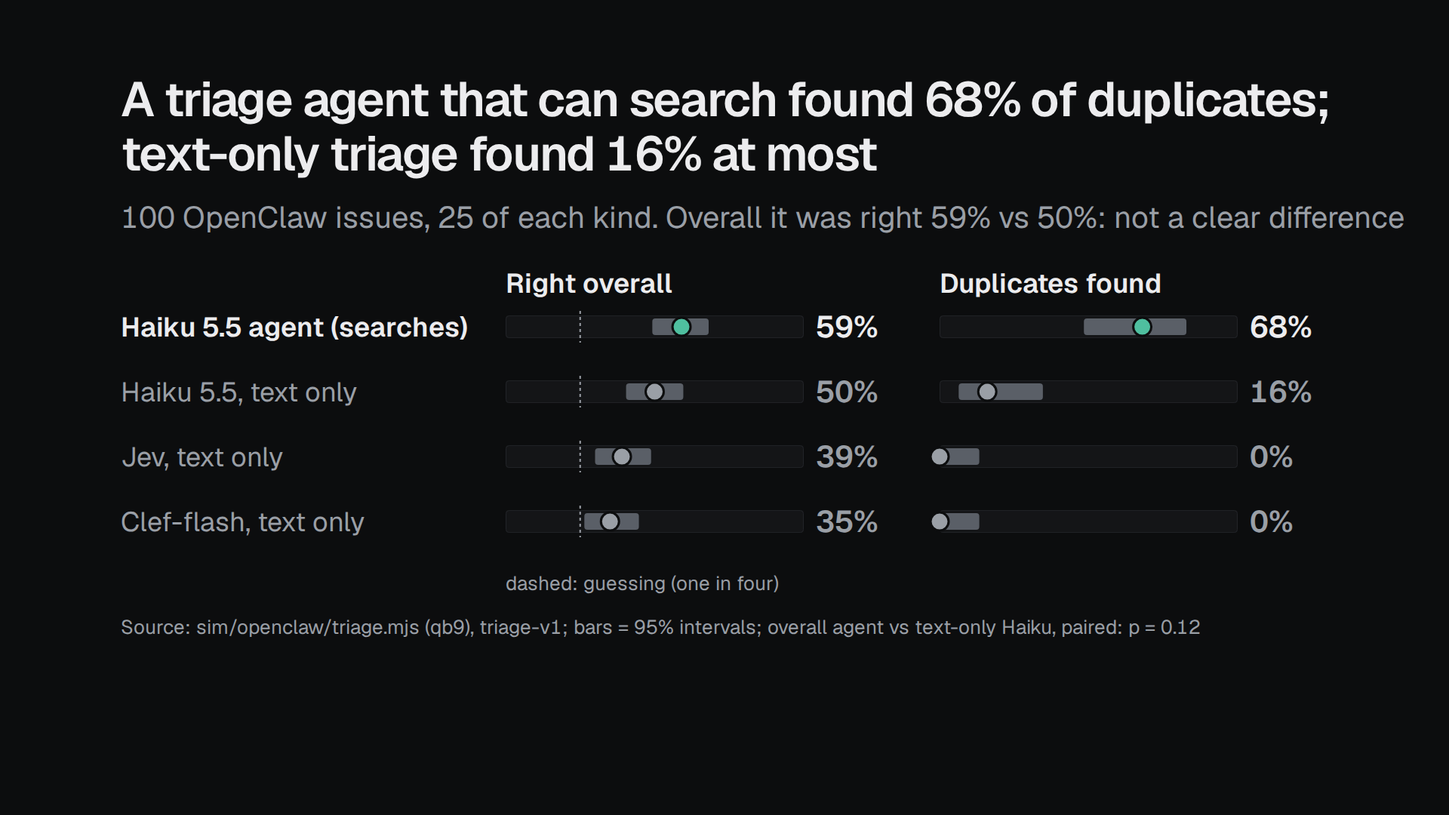
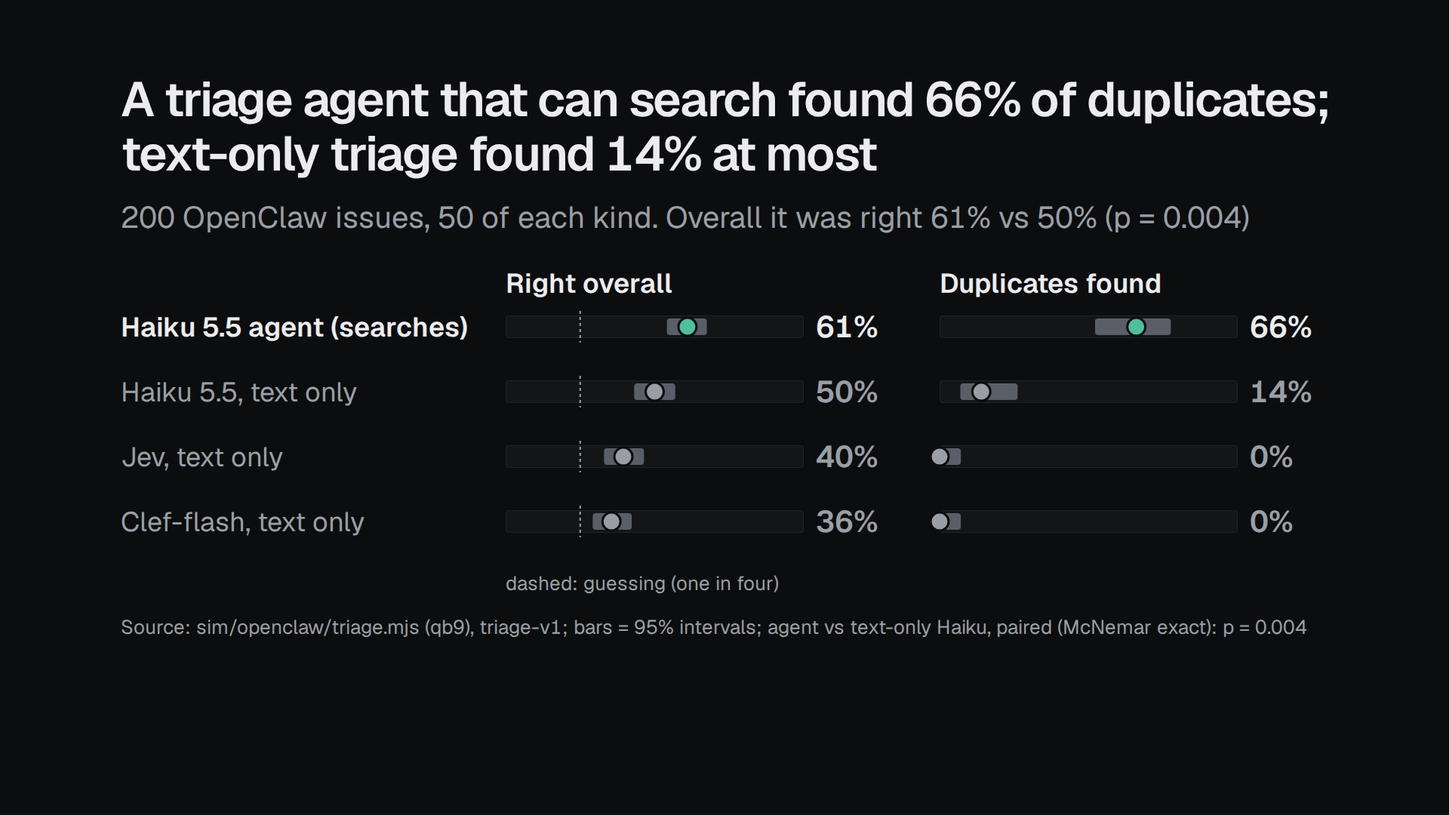
OpenClaw triage chart: 200 paired issues (agent 61% vs 50%, p = 0.004; duplicates 66% vs 14%), subline and p from the data; v2 vs v1 in the table

diff --git a/docs/openclaw/charts/index.html b/docs/openclaw/charts/index.html
@@ -56,9 +56,9 @@ footer { margin-top: 56px; color: var(--dim); font-size: 13px; }
 <p class="files">Source: docs/openclaw/data/breaks-summary.json. Files: <a href="openclaw-breaks-1920x1080-dark.png">1920x1080 dark</a> <a href="openclaw-breaks-1920x1080-light.png">1920x1080 light</a> <a href="openclaw-breaks-1080x1350-dark.png">1080x1350 dark</a> <a href="openclaw-breaks-1080x1350-light.png">1080x1350 light</a></p></details>
 </section>
 <section id="openclaw-triage" aria-labelledby="openclaw-triage-h">
-<h2 id="openclaw-triage-h" hidden>A triage agent that can search found 68% of duplicates; text-only triage found 16% at most</h2>
-<div class="L"><svg xmlns="http://www.w3.org/2000/svg" style="aspect-ratio:1920/1080" viewBox="0 0 1920 1080" role="img" aria-label="A triage agent that can search found 68% of duplicates; text-only triage found 16% at most" font-family="Geist, 'Instrument Sans', system-ui, sans-serif"><rect width="1920" height="1080" fill="var(--bg)"/><text x="160" y="154.4" font-size="64" font-weight="600" fill="var(--fg)" letter-spacing="-1.6" style="font-variant-numeric:tabular-nums">A triage agent that can search found 68% of duplicates;</text><text x="160" y="226.08" font-size="64" font-weight="600" fill="var(--fg)" letter-spacing="-1.6" style="font-variant-numeric:tabular-nums">text-only triage found 16% at most</text><text x="160" y="302.08000000000004" font-size="40" font-weight="400" fill="var(--dim)" style="font-variant-numeric:tabular-nums">100 OpenClaw issues, 25 of each kind. Overall it was right 59% vs 50%: not a clear difference</text><text x="670" y="388.08000000000004" font-size="36" font-weight="600" fill="var(--fg)" style="font-variant-numeric:tabular-nums">Right overall</text><text x="160" y="445.68000000000006" font-size="36" font-weight="600" fill="var(--fg)" style="font-variant-numeric:tabular-nums">Haiku 5.5 agent (searches)</text><rect x="670" y="418.08000000000004" width="395" height="30" rx="4" fill="var(--card)"/><rect x="670.5" y="418.58000000000004" width="394" height="29" rx="4" fill="none" stroke="var(--line)"/><line x1="768.75" x2="768.75" y1="412.08000000000004" y2="454.08000000000004" stroke="var(--dim)" stroke-width="2" stroke-dasharray="4 4"/><rect x="864.34" y="422.08000000000004" width="74.65500000000003" height="22" rx="4" fill="var(--bar)"><title>Haiku 5.5 agent (searches), right overall: 59% (49%-68%)</title></rect><circle cx="903.05" cy="433.08000000000004" r="12" fill="var(--acc)" stroke="var(--bg)" stroke-width="3"/><text x="1081" y="447.08000000000004" font-size="40" font-weight="600" fill="var(--fg)" style="font-variant-numeric:tabular-nums">59%</text><text x="160" y="531.6800000000001" font-size="36" font-weight="400" fill="var(--dim)" style="font-variant-numeric:tabular-nums">Haiku 5.5, text only</text><rect x="670" y="504.08000000000004" width="395" height="30" rx="4" fill="var(--card)"/><rect x="670.5" y="504.58000000000004" width="394" height="29" rx="4" fill="none" stroke="var(--line)"/><line x1="768.75" x2="768.75" y1="498.08000000000004" y2="540.08" stroke="var(--dim)" stroke-width="2" stroke-dasharray="4 4"/><rect x="829.58" y="508.08000000000004" width="75.83999999999997" height="22" rx="4" fill="var(--bar)"><title>Haiku 5.5, text only, right overall: 50% (40%-60%)</title></rect><circle cx="867.5" cy="519.08" r="12" fill="var(--dim)" stroke="var(--bg)" stroke-width="3"/><text x="1081" y="533.08" font-size="40" font-weight="600" fill="var(--dim)" style="font-variant-numeric:tabular-nums">50%</text><text x="160" y="617.6800000000001" font-size="36" font-weight="400" fill="var(--dim)" style="font-variant-numeric:tabular-nums">Jev, text only</text><rect x="670" y="590.08" width="395" height="30" rx="4" fill="var(--card)"/><rect x="670.5" y="590.58" width="394" height="29" rx="4" fill="none" stroke="var(--line)"/><line x1="768.75" x2="768.75" y1="584.08" y2="626.08" stroke="var(--dim)" stroke-width="2" stroke-dasharray="4 4"/><rect x="788.5" y="594.08" width="74.26" height="22" rx="4" fill="var(--bar)"><title>Jev, text only, right overall: 39% (30%-49%)</title></rect><circle cx="824.05" cy="605.08" r="12" fill="var(--dim)" stroke="var(--bg)" stroke-width="3"/><text x="1081" y="619.08" font-size="40" font-weight="600" fill="var(--dim)" style="font-variant-numeric:tabular-nums">39%</text><text x="160" y="703.6800000000001" font-size="36" font-weight="400" fill="var(--dim)" style="font-variant-numeric:tabular-nums">Clef-flash, text only</text><rect x="670" y="676.08" width="395" height="30" rx="4" fill="var(--card)"/><rect x="670.5" y="676.58" width="394" height="29" rx="4" fill="none" stroke="var(--line)"/><line x1="768.75" x2="768.75" y1="670.08" y2="712.08" stroke="var(--dim)" stroke-width="2" stroke-dasharray="4 4"/><rect x="774.28" y="680.08" width="72.285" height="22" rx="4" fill="var(--bar)"><title>Clef-flash, text only, right overall: 35% (26%-45%)</title></rect><circle cx="808.25" cy="691.08" r="12" fill="var(--dim)" stroke="var(--bg)" stroke-width="3"/><text x="1081" y="705.08" font-size="40" font-weight="600" fill="var(--dim)" style="font-variant-numeric:tabular-nums">35%</text><text x="1245" y="388.08000000000004" font-size="36" font-weight="600" fill="var(--fg)" style="font-variant-numeric:tabular-nums">Duplicates found</text><rect x="1245" y="418.08000000000004" width="395" height="30" rx="4" fill="var(--card)"/><rect x="1245.5" y="418.58000000000004" width="394" height="29" rx="4" fill="none" stroke="var(--line)"/><rect x="1436.219159251578" y="422.08000000000004" width="135.82114005670195" height="22" rx="4" fill="var(--bar)"><title>Haiku 5.5 agent (searches), duplicates found: 68% (48%-83%)</title></rect><circle cx="1513.6" cy="433.08000000000004" r="12" fill="var(--acc)" stroke="var(--bg)" stroke-width="3"/><text x="1656" y="447.08000000000004" font-size="40" font-weight="600" fill="var(--fg)" style="font-variant-numeric:tabular-nums">68%</text><rect x="1245" y="504.08000000000004" width="395" height="30" rx="4" fill="var(--card)"/><rect x="1245.5" y="504.58000000000004" width="394" height="29" rx="4" fill="none" stroke="var(--line)"/><rect x="1270.2932230538831" y="508.08000000000004" width="111.59013216805768" height="22" rx="4" fill="var(--bar)"><title>Haiku 5.5, text only, duplicates found: 16% (6%-35%)</title></rect><circle cx="1308.2" cy="519.08" r="12" fill="var(--dim)" stroke="var(--bg)" stroke-width="3"/><text x="1656" y="533.08" font-size="40" font-weight="600" fill="var(--dim)" style="font-variant-numeric:tabular-nums">16%</text><rect x="1245" y="590.08" width="395" height="30" rx="4" fill="var(--card)"/><rect x="1245.5" y="590.58" width="394" height="29" rx="4" fill="none" stroke="var(--line)"/><rect x="1245" y="594.08" width="52.6126151115056" height="22" rx="4" fill="var(--bar)"><title>Jev, text only, duplicates found: 0% (0%-13%)</title></rect><circle cx="1245" cy="605.08" r="12" fill="var(--dim)" stroke="var(--bg)" stroke-width="3"/><text x="1656" y="619.08" font-size="40" font-weight="600" fill="var(--dim)" style="font-variant-numeric:tabular-nums">0%</text><rect x="1245" y="676.08" width="395" height="30" rx="4" fill="var(--card)"/><rect x="1245.5" y="676.58" width="394" height="29" rx="4" fill="none" stroke="var(--line)"/><rect x="1245" y="680.08" width="52.6126151115056" height="22" rx="4" fill="var(--bar)"><title>Clef-flash, text only, duplicates found: 0% (0%-13%)</title></rect><circle cx="1245" cy="691.08" r="12" fill="var(--dim)" stroke="var(--bg)" stroke-width="3"/><text x="1656" y="705.08" font-size="40" font-weight="600" fill="var(--dim)" style="font-variant-numeric:tabular-nums">0%</text><text x="670" y="782.08" font-size="26" font-weight="400" fill="var(--dim)" style="font-variant-numeric:tabular-nums">dashed: guessing (one in four)</text><text x="160" y="840" font-size="26" font-weight="400" fill="var(--dim)" style="font-variant-numeric:tabular-nums">Source: sim/openclaw/triage.mjs (qb9), triage-v1; bars = 95% intervals; overall agent vs text-only Haiku, paired: p = 0.12</text></svg></div><div class="P"><svg xmlns="http://www.w3.org/2000/svg" style="aspect-ratio:1080/1350" viewBox="0 0 1080 1350" role="img" aria-label="A triage agent that can search found 68% of duplicates; text-only triage found 16% at most" font-family="Geist, 'Instrument Sans', system-ui, sans-serif"><rect width="1080" height="1350" fill="var(--bg)"/><text x="56" y="136.7" font-size="62" font-weight="600" fill="var(--fg)" letter-spacing="-1.6" style="font-variant-numeric:tabular-nums">A triage agent that</text><text x="56" y="206.14" font-size="62" font-weight="600" fill="var(--fg)" letter-spacing="-1.6" style="font-variant-numeric:tabular-nums">can search found 68%</text><text x="56" y="275.58000000000004" font-size="62" font-weight="600" fill="var(--fg)" letter-spacing="-1.6" style="font-variant-numeric:tabular-nums">of duplicates; text-only</text><text x="56" y="345.02" font-size="62" font-weight="600" fill="var(--fg)" letter-spacing="-1.6" style="font-variant-numeric:tabular-nums">16% at most</text><text x="56" y="425.02000000000004" font-size="44" font-weight="400" fill="var(--dim)" style="font-variant-numeric:tabular-nums">100 OpenClaw issues, 25 of each</text><text x="56" y="484.4200000000001" font-size="44" font-weight="400" fill="var(--dim)" style="font-variant-numeric:tabular-nums">kind. Overall 59% vs 50%, not clear</text><text x="56" y="578.4200000000001" font-size="40" font-weight="600" fill="var(--fg)" style="font-variant-numeric:tabular-nums">Right overall</text><text x="56" y="623.4200000000001" font-size="34" font-weight="600" fill="var(--fg)" style="font-variant-numeric:tabular-nums">Haiku agent</text><rect x="276" y="600.4200000000001" width="638" height="26" rx="4" fill="var(--card)"/><rect x="276.5" y="600.9200000000001" width="637" height="25" rx="4" fill="none" stroke="var(--line)"/><line x1="435.5" x2="435.5" y1="596.4200000000001" y2="630.4200000000001" stroke="var(--dim)" stroke-width="2" stroke-dasharray="4 4"/><rect x="589.896" y="603.4200000000001" width="120.58200000000004" height="20" rx="4" fill="var(--bar)"></rect><circle cx="652.42" cy="613.4200000000001" r="12" fill="var(--acc)" stroke="var(--bg)" stroke-width="3"/><text x="928" y="624.4200000000001" font-size="36" font-weight="600" fill="var(--fg)" style="font-variant-numeric:tabular-nums">59%</text><text x="56" y="686.1175000000001" font-size="34" font-weight="400" fill="var(--dim)" style="font-variant-numeric:tabular-nums">Haiku, text</text><rect x="276" y="663.1175000000001" width="638" height="26" rx="4" fill="var(--card)"/><rect x="276.5" y="663.6175000000001" width="637" height="25" rx="4" fill="none" stroke="var(--line)"/><line x1="435.5" x2="435.5" y1="659.1175000000001" y2="693.1175000000001" stroke="var(--dim)" stroke-width="2" stroke-dasharray="4 4"/><rect x="533.752" y="666.1175000000001" width="122.49599999999997" height="20" rx="4" fill="var(--bar)"></rect><circle cx="595" cy="676.1175000000001" r="12" fill="var(--dim)" stroke="var(--bg)" stroke-width="3"/><text x="928" y="687.1175000000001" font-size="36" font-weight="600" fill="var(--dim)" style="font-variant-numeric:tabular-nums">50%</text><text x="56" y="748.815" font-size="34" font-weight="400" fill="var(--dim)" style="font-variant-numeric:tabular-nums">Jev, text</text><rect x="276" y="725.815" width="638" height="26" rx="4" fill="var(--card)"/><rect x="276.5" y="726.315" width="637" height="25" rx="4" fill="none" stroke="var(--line)"/><line x1="435.5" x2="435.5" y1="721.815" y2="755.815" stroke="var(--dim)" stroke-width="2" stroke-dasharray="4 4"/><rect x="467.4" y="728.815" width="119.944" height="20" rx="4" fill="var(--bar)"></rect><circle cx="524.82" cy="738.815" r="12" fill="var(--dim)" stroke="var(--bg)" stroke-width="3"/><text x="928" y="749.815" font-size="36" font-weight="600" fill="var(--dim)" style="font-variant-numeric:tabular-nums">39%</text><text x="56" y="811.5125" font-size="34" font-weight="400" fill="var(--dim)" style="font-variant-numeric:tabular-nums">Clef-flash</text><rect x="276" y="788.5125" width="638" height="26" rx="4" fill="var(--card)"/><rect x="276.5" y="789.0125" width="637" height="25" rx="4" fill="none" stroke="var(--line)"/><line x1="435.5" x2="435.5" y1="784.5125" y2="818.5125" stroke="var(--dim)" stroke-width="2" stroke-dasharray="4 4"/><rect x="444.432" y="791.5125" width="116.75399999999999" height="20" rx="4" fill="var(--bar)"></rect><circle cx="499.29999999999995" cy="801.5125" r="12" fill="var(--dim)" stroke="var(--bg)" stroke-width="3"/><text x="928" y="812.5125" font-size="36" font-weight="600" fill="var(--dim)" style="font-variant-numeric:tabular-nums">35%</text><text x="56" y="899.21" font-size="40" font-weight="600" fill="var(--fg)" style="font-variant-numeric:tabular-nums">Duplicates found</text><text x="56" y="944.21" font-size="34" font-weight="600" fill="var(--fg)" style="font-variant-numeric:tabular-nums">Haiku agent</text><rect x="276" y="921.21" width="638" height="26" rx="4" fill="var(--card)"/><rect x="276.5" y="921.71" width="637" height="25" rx="4" fill="none" stroke="var(--line)"/><rect x="584.8552496265995" y="924.21" width="219.37693001563505" height="20" rx="4" fill="var(--bar)"></rect><circle cx="709.84" cy="934.21" r="12" fill="var(--acc)" stroke="var(--bg)" stroke-width="3"/><text x="928" y="945.21" font-size="36" font-weight="600" fill="var(--fg)" style="font-variant-numeric:tabular-nums">68%</text><text x="56" y="1006.9075" font-size="34" font-weight="400" fill="var(--dim)" style="font-variant-numeric:tabular-nums">Haiku, text</text><rect x="276" y="983.9075" width="638" height="26" rx="4" fill="var(--card)"/><rect x="276.5" y="984.4075" width="637" height="25" rx="4" fill="none" stroke="var(--line)"/><rect x="316.85335774272755" y="986.9075" width="180.2392514511919" height="20" rx="4" fill="var(--bar)"></rect><circle cx="378.08" cy="996.9075" r="12" fill="var(--dim)" stroke="var(--bg)" stroke-width="3"/><text x="928" y="1007.9075" font-size="36" font-weight="600" fill="var(--dim)" style="font-variant-numeric:tabular-nums">16%</text><text x="56" y="1069.605" font-size="34" font-weight="400" fill="var(--dim)" style="font-variant-numeric:tabular-nums">Jev, text</text><rect x="276" y="1046.605" width="638" height="26" rx="4" fill="var(--card)"/><rect x="276.5" y="1047.105" width="637" height="25" rx="4" fill="none" stroke="var(--line)"/><rect x="276" y="1049.605" width="84.97936314212802" height="20" rx="4" fill="var(--bar)"></rect><circle cx="276" cy="1059.605" r="12" fill="var(--dim)" stroke="var(--bg)" stroke-width="3"/><text x="928" y="1070.605" font-size="36" font-weight="600" fill="var(--dim)" style="font-variant-numeric:tabular-nums">0%</text><text x="56" y="1132.3025" font-size="34" font-weight="400" fill="var(--dim)" style="font-variant-numeric:tabular-nums">Clef-flash</text><rect x="276" y="1109.3025" width="638" height="26" rx="4" fill="var(--card)"/><rect x="276.5" y="1109.8025" width="637" height="25" rx="4" fill="none" stroke="var(--line)"/><rect x="276" y="1112.3025" width="84.97936314212802" height="20" rx="4" fill="var(--bar)"></rect><circle cx="276" cy="1122.3025" r="12" fill="var(--dim)" stroke="var(--bg)" stroke-width="3"/><text x="928" y="1133.3025" font-size="36" font-weight="600" fill="var(--dim)" style="font-variant-numeric:tabular-nums">0%</text><text x="56" y="1252" font-size="30" font-weight="400" fill="var(--dim)" style="font-variant-numeric:tabular-nums">Source: sim/openclaw/triage.mjs (qb9), triage-v1; bars =</text><text x="56" y="1291" font-size="30" font-weight="400" fill="var(--dim)" style="font-variant-numeric:tabular-nums">95% intervals; overall agent vs text-only Haiku, paired: p = 0.12</text></svg></div>
-<details><summary>The numbers</summary><table><tr><th>classifier</th><th>right overall</th><th>95% interval</th><th>duplicates found</th><th>closes</th><th>fixes</th><th>decisions</th></tr><tr><td>Haiku 5.5 agent (searches)</td><td>59%</td><td>49%-68%</td><td>17 of 25</td><td>28%</td><td>72%</td><td>68%</td></tr><tr><td>Haiku 5.5, text only</td><td>50%</td><td>40%-60%</td><td>4 of 25</td><td>20%</td><td>88%</td><td>76%</td></tr><tr><td>Jev, text only</td><td>39%</td><td>30%-49%</td><td>0 of 25</td><td>20%</td><td>88%</td><td>48%</td></tr><tr><td>Clef-flash, text only</td><td>35%</td><td>26%-45%</td><td>0 of 25</td><td>12%</td><td>96%</td><td>32%</td></tr><tr><td>agent cost for 100</td><td>$0.121 API-equivalent</td><td>3 turns (median)</td><td></td><td></td><td></td><td></td></tr></table>
+<h2 id="openclaw-triage-h" hidden>A triage agent that can search found 66% of duplicates; text-only triage found 14% at most</h2>
+<div class="L"><svg xmlns="http://www.w3.org/2000/svg" style="aspect-ratio:1920/1080" viewBox="0 0 1920 1080" role="img" aria-label="A triage agent that can search found 66% of duplicates; text-only triage found 14% at most" font-family="Geist, 'Instrument Sans', system-ui, sans-serif"><rect width="1920" height="1080" fill="var(--bg)"/><text x="160" y="154.4" font-size="64" font-weight="600" fill="var(--fg)" letter-spacing="-1.6" style="font-variant-numeric:tabular-nums">A triage agent that can search found 66% of duplicates;</text><text x="160" y="226.08" font-size="64" font-weight="600" fill="var(--fg)" letter-spacing="-1.6" style="font-variant-numeric:tabular-nums">text-only triage found 14% at most</text><text x="160" y="302.08000000000004" font-size="40" font-weight="400" fill="var(--dim)" style="font-variant-numeric:tabular-nums">200 OpenClaw issues, 50 of each kind. Overall it was right 61% vs 50% (p = 0.004)</text><text x="670" y="388.08000000000004" font-size="36" font-weight="600" fill="var(--fg)" style="font-variant-numeric:tabular-nums">Right overall</text><text x="160" y="445.68000000000006" font-size="36" font-weight="600" fill="var(--fg)" style="font-variant-numeric:tabular-nums">Haiku 5.5 agent (searches)</text><rect x="670" y="418.08000000000004" width="395" height="30" rx="4" fill="var(--card)"/><rect x="670.5" y="418.58000000000004" width="394" height="29" rx="4" fill="none" stroke="var(--line)"/><line x1="768.75" x2="768.75" y1="412.08000000000004" y2="454.08000000000004" stroke="var(--dim)" stroke-width="2" stroke-dasharray="4 4"/><rect x="883.695" y="422.08000000000004" width="52.93" height="22" rx="4" fill="var(--bar)"><title>Haiku 5.5 agent (searches), right overall: 61% (54%-68%)</title></rect><circle cx="910.95" cy="433.08000000000004" r="12" fill="var(--acc)" stroke="var(--bg)" stroke-width="3"/><text x="1081" y="447.08000000000004" font-size="40" font-weight="600" fill="var(--fg)" style="font-variant-numeric:tabular-nums">61%</text><text x="160" y="531.6800000000001" font-size="36" font-weight="400" fill="var(--dim)" style="font-variant-numeric:tabular-nums">Haiku 5.5, text only</text><rect x="670" y="504.08000000000004" width="395" height="30" rx="4" fill="var(--card)"/><rect x="670.5" y="504.58000000000004" width="394" height="29" rx="4" fill="none" stroke="var(--line)"/><line x1="768.75" x2="768.75" y1="498.08000000000004" y2="540.08" stroke="var(--dim)" stroke-width="2" stroke-dasharray="4 4"/><rect x="840.245" y="508.08000000000004" width="54.509999999999984" height="22" rx="4" fill="var(--bar)"><title>Haiku 5.5, text only, right overall: 50% (43%-57%)</title></rect><circle cx="867.5" cy="519.08" r="12" fill="var(--dim)" stroke="var(--bg)" stroke-width="3"/><text x="1081" y="533.08" font-size="40" font-weight="600" fill="var(--dim)" style="font-variant-numeric:tabular-nums">50%</text><text x="160" y="617.6800000000001" font-size="36" font-weight="400" fill="var(--dim)" style="font-variant-numeric:tabular-nums">Jev, text only</text><rect x="670" y="590.08" width="395" height="30" rx="4" fill="var(--card)"/><rect x="670.5" y="590.58" width="394" height="29" rx="4" fill="none" stroke="var(--line)"/><line x1="768.75" x2="768.75" y1="584.08" y2="626.08" stroke="var(--dim)" stroke-width="2" stroke-dasharray="4 4"/><rect x="800.35" y="594.08" width="52.93" height="22" rx="4" fill="var(--bar)"><title>Jev, text only, right overall: 40% (33%-46%)</title></rect><circle cx="826.025" cy="605.08" r="12" fill="var(--dim)" stroke="var(--bg)" stroke-width="3"/><text x="1081" y="619.08" font-size="40" font-weight="600" fill="var(--dim)" style="font-variant-numeric:tabular-nums">40%</text><text x="160" y="703.6800000000001" font-size="36" font-weight="400" fill="var(--dim)" style="font-variant-numeric:tabular-nums">Clef-flash, text only</text><rect x="670" y="676.08" width="395" height="30" rx="4" fill="var(--card)"/><rect x="670.5" y="676.58" width="394" height="29" rx="4" fill="none" stroke="var(--line)"/><line x1="768.75" x2="768.75" y1="670.08" y2="712.08" stroke="var(--dim)" stroke-width="2" stroke-dasharray="4 4"/><rect x="785.34" y="680.08" width="51.745000000000005" height="22" rx="4" fill="var(--bar)"><title>Clef-flash, text only, right overall: 36% (29%-42%)</title></rect><circle cx="810.225" cy="691.08" r="12" fill="var(--dim)" stroke="var(--bg)" stroke-width="3"/><text x="1081" y="705.08" font-size="40" font-weight="600" fill="var(--dim)" style="font-variant-numeric:tabular-nums">36%</text><text x="1245" y="388.08000000000004" font-size="36" font-weight="600" fill="var(--fg)" style="font-variant-numeric:tabular-nums">Duplicates found</text><rect x="1245" y="418.08000000000004" width="395" height="30" rx="4" fill="var(--card)"/><rect x="1245.5" y="418.58000000000004" width="394" height="29" rx="4" fill="none" stroke="var(--line)"/><rect x="1451.0065957388574" y="422.08000000000004" width="100.3681642026515" height="22" rx="4" fill="var(--bar)"><title>Haiku 5.5 agent (searches), duplicates found: 66% (52%-78%)</title></rect><circle cx="1505.7" cy="433.08000000000004" r="12" fill="var(--acc)" stroke="var(--bg)" stroke-width="3"/><text x="1656" y="447.08000000000004" font-size="40" font-weight="600" fill="var(--fg)" style="font-variant-numeric:tabular-nums">66%</text><rect x="1245" y="504.08000000000004" width="395" height="30" rx="4" fill="var(--card)"/><rect x="1245.5" y="504.58000000000004" width="394" height="29" rx="4" fill="none" stroke="var(--line)"/><rect x="1272.4554437849904" y="508.08000000000004" width="75.98106214919565" height="22" rx="4" fill="var(--bar)"><title>Haiku 5.5, text only, duplicates found: 14% (7%-26%)</title></rect><circle cx="1300.3" cy="519.08" r="12" fill="var(--dim)" stroke="var(--bg)" stroke-width="3"/><text x="1656" y="533.08" font-size="40" font-weight="600" fill="var(--dim)" style="font-variant-numeric:tabular-nums">14%</text><rect x="1245" y="590.08" width="395" height="30" rx="4" fill="var(--card)"/><rect x="1245.5" y="590.58" width="394" height="29" rx="4" fill="none" stroke="var(--line)"/><rect x="1245" y="594.08" width="28.1832634988559" height="22" rx="4" fill="var(--bar)"><title>Jev, text only, duplicates found: 0% (0%-7%)</title></rect><circle cx="1245" cy="605.08" r="12" fill="var(--dim)" stroke="var(--bg)" stroke-width="3"/><text x="1656" y="619.08" font-size="40" font-weight="600" fill="var(--dim)" style="font-variant-numeric:tabular-nums">0%</text><rect x="1245" y="676.08" width="395" height="30" rx="4" fill="var(--card)"/><rect x="1245.5" y="676.58" width="394" height="29" rx="4" fill="none" stroke="var(--line)"/><rect x="1245" y="680.08" width="28.1832634988559" height="22" rx="4" fill="var(--bar)"><title>Clef-flash, text only, duplicates found: 0% (0%-7%)</title></rect><circle cx="1245" cy="691.08" r="12" fill="var(--dim)" stroke="var(--bg)" stroke-width="3"/><text x="1656" y="705.08" font-size="40" font-weight="600" fill="var(--dim)" style="font-variant-numeric:tabular-nums">0%</text><text x="670" y="782.08" font-size="26" font-weight="400" fill="var(--dim)" style="font-variant-numeric:tabular-nums">dashed: guessing (one in four)</text><text x="160" y="840" font-size="26" font-weight="400" fill="var(--dim)" style="font-variant-numeric:tabular-nums">Source: sim/openclaw/triage.mjs (qb9), triage-v1; bars = 95% intervals; agent vs text-only Haiku, paired (McNemar exact): p = 0.004</text></svg></div><div class="P"><svg xmlns="http://www.w3.org/2000/svg" style="aspect-ratio:1080/1350" viewBox="0 0 1080 1350" role="img" aria-label="A triage agent that can search found 66% of duplicates; text-only triage found 14% at most" font-family="Geist, 'Instrument Sans', system-ui, sans-serif"><rect width="1080" height="1350" fill="var(--bg)"/><text x="56" y="136.7" font-size="62" font-weight="600" fill="var(--fg)" letter-spacing="-1.6" style="font-variant-numeric:tabular-nums">A triage agent that</text><text x="56" y="206.14" font-size="62" font-weight="600" fill="var(--fg)" letter-spacing="-1.6" style="font-variant-numeric:tabular-nums">can search found 66%</text><text x="56" y="275.58000000000004" font-size="62" font-weight="600" fill="var(--fg)" letter-spacing="-1.6" style="font-variant-numeric:tabular-nums">of duplicates; text-only</text><text x="56" y="345.02" font-size="62" font-weight="600" fill="var(--fg)" letter-spacing="-1.6" style="font-variant-numeric:tabular-nums">14% at most</text><text x="56" y="425.02000000000004" font-size="44" font-weight="400" fill="var(--dim)" style="font-variant-numeric:tabular-nums">200 OpenClaw issues, 50 of each</text><text x="56" y="484.4200000000001" font-size="44" font-weight="400" fill="var(--dim)" style="font-variant-numeric:tabular-nums">kind. Overall 61% vs 50% (p = 0.004)</text><text x="56" y="578.4200000000001" font-size="40" font-weight="600" fill="var(--fg)" style="font-variant-numeric:tabular-nums">Right overall</text><text x="56" y="623.4200000000001" font-size="34" font-weight="600" fill="var(--fg)" style="font-variant-numeric:tabular-nums">Haiku agent</text><rect x="276" y="600.4200000000001" width="638" height="26" rx="4" fill="var(--card)"/><rect x="276.5" y="600.9200000000001" width="637" height="25" rx="4" fill="none" stroke="var(--line)"/><line x1="435.5" x2="435.5" y1="596.4200000000001" y2="630.4200000000001" stroke="var(--dim)" stroke-width="2" stroke-dasharray="4 4"/><rect x="621.158" y="603.4200000000001" width="85.492" height="20" rx="4" fill="var(--bar)"></rect><circle cx="665.1800000000001" cy="613.4200000000001" r="12" fill="var(--acc)" stroke="var(--bg)" stroke-width="3"/><text x="928" y="624.4200000000001" font-size="36" font-weight="600" fill="var(--fg)" style="font-variant-numeric:tabular-nums">61%</text><text x="56" y="686.1175000000001" font-size="34" font-weight="400" fill="var(--dim)" style="font-variant-numeric:tabular-nums">Haiku, text</text><rect x="276" y="663.1175000000001" width="638" height="26" rx="4" fill="var(--card)"/><rect x="276.5" y="663.6175000000001" width="637" height="25" rx="4" fill="none" stroke="var(--line)"/><line x1="435.5" x2="435.5" y1="659.1175000000001" y2="693.1175000000001" stroke="var(--dim)" stroke-width="2" stroke-dasharray="4 4"/><rect x="550.9780000000001" y="666.1175000000001" width="88.04399999999997" height="20" rx="4" fill="var(--bar)"></rect><circle cx="595" cy="676.1175000000001" r="12" fill="var(--dim)" stroke="var(--bg)" stroke-width="3"/><text x="928" y="687.1175000000001" font-size="36" font-weight="600" fill="var(--dim)" style="font-variant-numeric:tabular-nums">50%</text><text x="56" y="748.815" font-size="34" font-weight="400" fill="var(--dim)" style="font-variant-numeric:tabular-nums">Jev, text</text><rect x="276" y="725.815" width="638" height="26" rx="4" fill="var(--card)"/><rect x="276.5" y="726.315" width="637" height="25" rx="4" fill="none" stroke="var(--line)"/><line x1="435.5" x2="435.5" y1="721.815" y2="755.815" stroke="var(--dim)" stroke-width="2" stroke-dasharray="4 4"/><rect x="486.54" y="728.815" width="85.492" height="20" rx="4" fill="var(--bar)"></rect><circle cx="528.01" cy="738.815" r="12" fill="var(--dim)" stroke="var(--bg)" stroke-width="3"/><text x="928" y="749.815" font-size="36" font-weight="600" fill="var(--dim)" style="font-variant-numeric:tabular-nums">40%</text><text x="56" y="811.5125" font-size="34" font-weight="400" fill="var(--dim)" style="font-variant-numeric:tabular-nums">Clef-flash</text><rect x="276" y="788.5125" width="638" height="26" rx="4" fill="var(--card)"/><rect x="276.5" y="789.0125" width="637" height="25" rx="4" fill="none" stroke="var(--line)"/><line x1="435.5" x2="435.5" y1="784.5125" y2="818.5125" stroke="var(--dim)" stroke-width="2" stroke-dasharray="4 4"/><rect x="462.296" y="791.5125" width="83.578" height="20" rx="4" fill="var(--bar)"></rect><circle cx="502.49" cy="801.5125" r="12" fill="var(--dim)" stroke="var(--bg)" stroke-width="3"/><text x="928" y="812.5125" font-size="36" font-weight="600" fill="var(--dim)" style="font-variant-numeric:tabular-nums">36%</text><text x="56" y="899.21" font-size="40" font-weight="600" fill="var(--fg)" style="font-variant-numeric:tabular-nums">Duplicates found</text><text x="56" y="944.21" font-size="34" font-weight="600" fill="var(--fg)" style="font-variant-numeric:tabular-nums">Haiku agent</text><rect x="276" y="921.21" width="638" height="26" rx="4" fill="var(--card)"/><rect x="276.5" y="921.71" width="637" height="25" rx="4" fill="none" stroke="var(--line)"/><rect x="608.7397672946606" y="924.21" width="162.11364243364977" height="20" rx="4" fill="var(--bar)"></rect><circle cx="697.08" cy="934.21" r="12" fill="var(--acc)" stroke="var(--bg)" stroke-width="3"/><text x="928" y="945.21" font-size="36" font-weight="600" fill="var(--fg)" style="font-variant-numeric:tabular-nums">66%</text><text x="56" y="1006.9075" font-size="34" font-weight="400" fill="var(--dim)" style="font-variant-numeric:tabular-nums">Haiku, text</text><rect x="276" y="983.9075" width="638" height="26" rx="4" fill="var(--card)"/><rect x="276.5" y="984.4075" width="637" height="25" rx="4" fill="none" stroke="var(--line)"/><rect x="320.34575477170586" y="986.9075" width="122.72384215490337" height="20" rx="4" fill="var(--bar)"></rect><circle cx="365.32" cy="996.9075" r="12" fill="var(--dim)" stroke="var(--bg)" stroke-width="3"/><text x="928" y="1007.9075" font-size="36" font-weight="600" fill="var(--dim)" style="font-variant-numeric:tabular-nums">14%</text><text x="56" y="1069.605" font-size="34" font-weight="400" fill="var(--dim)" style="font-variant-numeric:tabular-nums">Jev, text</text><rect x="276" y="1046.605" width="638" height="26" rx="4" fill="var(--card)"/><rect x="276.5" y="1047.105" width="637" height="25" rx="4" fill="none" stroke="var(--line)"/><rect x="276" y="1049.605" width="45.52132180321535" height="20" rx="4" fill="var(--bar)"></rect><circle cx="276" cy="1059.605" r="12" fill="var(--dim)" stroke="var(--bg)" stroke-width="3"/><text x="928" y="1070.605" font-size="36" font-weight="600" fill="var(--dim)" style="font-variant-numeric:tabular-nums">0%</text><text x="56" y="1132.3025" font-size="34" font-weight="400" fill="var(--dim)" style="font-variant-numeric:tabular-nums">Clef-flash</text><rect x="276" y="1109.3025" width="638" height="26" rx="4" fill="var(--card)"/><rect x="276.5" y="1109.8025" width="637" height="25" rx="4" fill="none" stroke="var(--line)"/><rect x="276" y="1112.3025" width="45.52132180321535" height="20" rx="4" fill="var(--bar)"></rect><circle cx="276" cy="1122.3025" r="12" fill="var(--dim)" stroke="var(--bg)" stroke-width="3"/><text x="928" y="1133.3025" font-size="36" font-weight="600" fill="var(--dim)" style="font-variant-numeric:tabular-nums">0%</text><text x="56" y="1252" font-size="30" font-weight="400" fill="var(--dim)" style="font-variant-numeric:tabular-nums">Source: sim/openclaw/triage.mjs (qb9), triage-v1; bars =</text><text x="56" y="1291" font-size="30" font-weight="400" fill="var(--dim)" style="font-variant-numeric:tabular-nums">95% intervals; agent vs text-only Haiku, paired (McNemar exact): p = 0.004</text></svg></div>
+<details><summary>The numbers</summary><table><tr><th>classifier</th><th>right overall</th><th>95% interval</th><th>duplicates found</th><th>closes</th><th>fixes</th><th>decisions</th></tr><tr><td>Haiku 5.5 agent (searches)</td><td>61%</td><td>54%-68%</td><td>33 of 50</td><td>28%</td><td>72%</td><td>78%</td></tr><tr><td>Haiku 5.5, text only</td><td>50%</td><td>43%-57%</td><td>7 of 50</td><td>24%</td><td>84%</td><td>78%</td></tr><tr><td>Jev, text only</td><td>40%</td><td>33%-46%</td><td>0 of 50</td><td>22%</td><td>84%</td><td>52%</td></tr><tr><td>Clef-flash, text only</td><td>36%</td><td>29%-42%</td><td>0 of 50</td><td>12%</td><td>94%</td><td>36%</td></tr><tr><td>agent cost for 200</td><td>$0.242 API-equivalent</td><td>3 turns (median)</td><td></td><td></td><td></td><td></td></tr><tr><td>agent vs text-only Haiku, paired</td><td>only the agent right: 38</td><td>only text right: 16</td><td>p = 0.004</td><td></td><td></td><td></td></tr><tr><td>agent prompt v2 vs v1, 100 new issues</td><td>56% vs 53%</td><td>p = 0.51</td><td>duplicates 64% vs 56%</td><td></td><td></td><td></td></tr></table>
 <p class="files">Source: docs/openclaw/data/triage-score.json: on_agent_subset (+ agent_detail). Files: <a href="openclaw-triage-1920x1080-dark.png">1920x1080 dark</a> <a href="openclaw-triage-1920x1080-light.png">1920x1080 light</a> <a href="openclaw-triage-1080x1350-dark.png">1080x1350 dark</a> <a href="openclaw-triage-1080x1350-light.png">1080x1350 light</a></p></details>
 </section>
 <footer>Built by docs/openclaw/charts/build.mjs from docs/openclaw/data, 2026-10-08.</footer>
